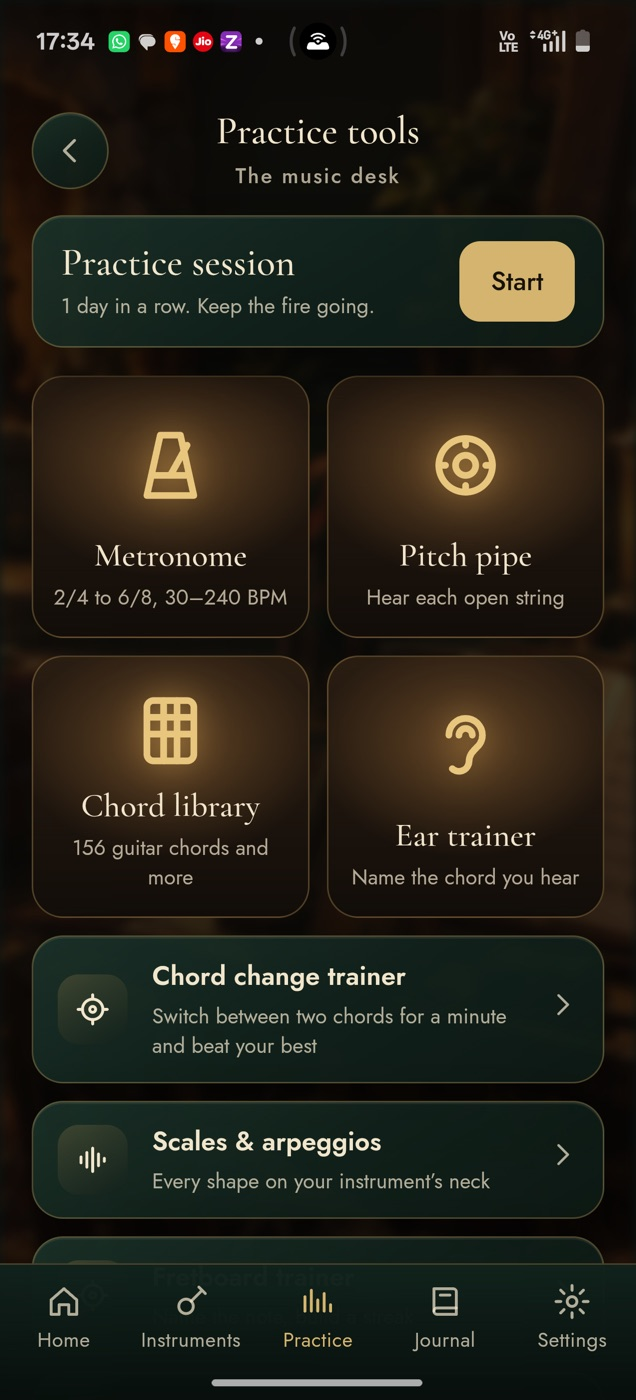
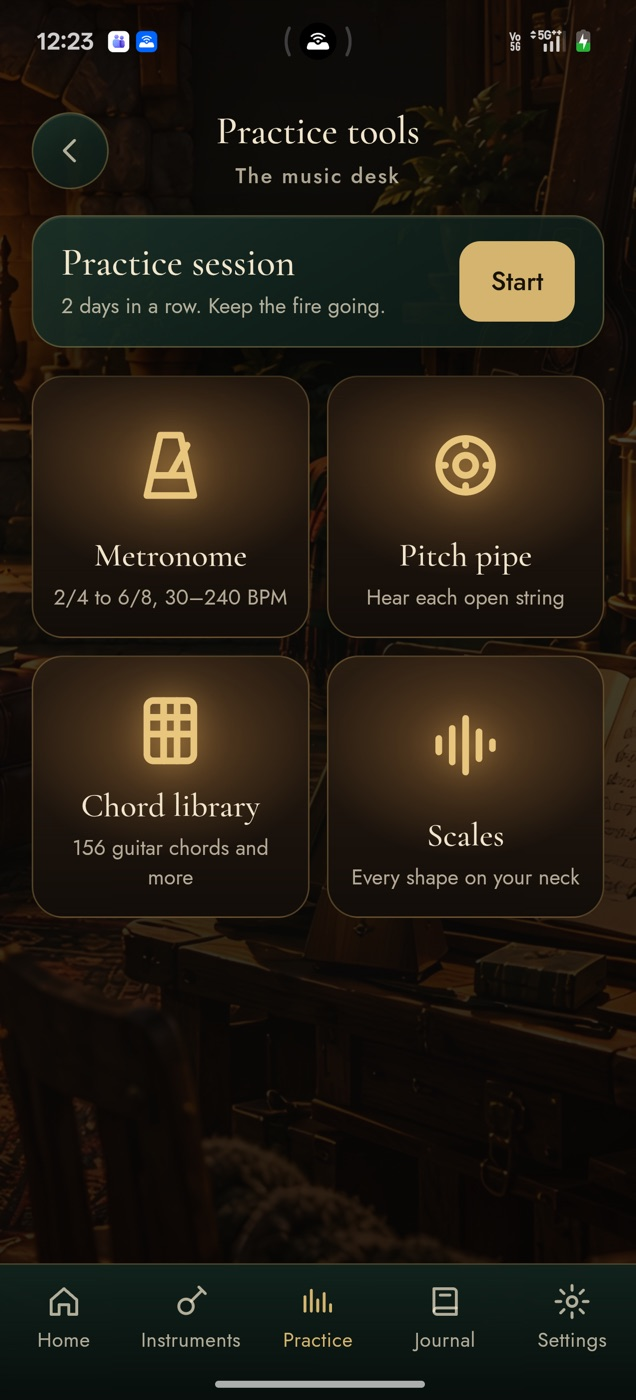
Site and privacy policy: match the focused app

diff --git a/index.html b/index.html
@@ -4,7 +4,7 @@
 <meta charset="utf-8">
 <meta name="viewport" content="width=device-width, initial-scale=1">
 <title>Emberluth: the musician's common room</title>
-<meta name="description" content="Emberluth is a free, private Android app for string players: a living, painted common room where you tune 12 instruments, practise, plan setlists, pack for gigs, care for your strings and keep a journal. No ads, no tracking, works offline.">
+<meta name="description" content="Emberluth is a free, private Android app for string players: a living, painted common room where you tune 12 instruments, practise with a timer, scales and chords, and keep a practice log and string records. No ads, no tracking, works offline.">
 <meta property="og:title" content="Emberluth: the musician's common room">
 <meta property="og:description" content="Tune, practise and prepare by the fire. A free, private app for string players.">
 <meta property="og:image" content="https://h4r1-projects.github.io/emberluth/assets/social-preview.jpg">
@@ -107,13 +107,13 @@
     <div class="places">
       <div class="place"><figure><img src="assets/screens/10-violin.jpg" alt="The violin's page with tuning and care options" loading="lazy"></figure><h3>Every instrument</h3><p>Tune it, change its tuning, look after it and keep its notes.</p></div>
       <div class="place"><figure><img src="assets/screens/12-scales.jpg" alt="Scales and arpeggios drawn on a fretboard" loading="lazy"></figure><h3>Scales on the neck</h3><p>Eleven scales and arpeggios on any of the twelve instruments.</p></div>
-      <div class="place"><figure><img src="assets/screens/15-setlist.jpg" alt="A setlist with keys and capo positions" loading="lazy"></figure><h3>Setlists</h3><p>Songs with their key, capo and tuning, in running order.</p></div>
-      <div class="place"><figure><img src="assets/screens/17-care.jpg" alt="Instrument care guide and string records" loading="lazy"></figure><h3>Instrument care</h3><p>Care guides, string-change records and a maintenance checklist.</p></div>
+      <div class="place"><figure><img src="assets/screens/11-practice.jpg" alt="Practice tools with a session timer" loading="lazy"></figure><h3>Practice tools</h3><p>A session timer, metronome, pitch pipe, chords and scales in one place.</p></div>
+      <div class="place"><figure><img src="assets/screens/17-care.jpg" alt="Instrument care guide and string records" loading="lazy"></figure><h3>Instrument care</h3><p>Care guides, string-change records and notes for each instrument.</p></div>
     </div>
     <div class="tools">
       <div class="tool"><h3>Tune</h3><ul><li>Auto, manual and chromatic modes</li><li>Fine mode, in tune at ±2 cents</li><li>Headstock view shows which peg to turn</li><li>Reference pitch from 415 to 466 Hz</li><li>Custom tunings and a left-handed layout</li></ul></div>
-      <div class="tool"><h3>Practise</h3><ul><li>Metronome from 30 to 240 BPM</li><li>Pitch pipe and 156 guitar chords</li><li>Ear trainer and chord-change trainer</li><li>Fretboard note trainer</li><li>Capo finder and chord transposer</li><li>A practice timer that logs your sessions</li></ul></div>
-      <div class="tool"><h3>Prepare</h3><ul><li>Gig packing lists and reusable templates</li><li>Setlists with key, capo and tuning</li><li>String-change history per instrument</li><li>A journal for goals, practice and ideas</li></ul></div>
+      <div class="tool"><h3>Practise</h3><ul><li>Metronome from 30 to 240 BPM</li><li>Pitch pipe and 156 guitar chords</li><li>Eleven scales and arpeggios on any instrument's neck</li><li>A practice timer that logs your sessions</li></ul></div>
+      <div class="tool"><h3>Prepare</h3><ul><li>A practice log that fills itself from your timer</li><li>Goals, and a fire that burns by how often you play</li><li>String-change history per instrument</li><li>Care guides for each instrument family</li></ul></div>
     </div>
   </div>
 </section>
@@ -123,7 +123,7 @@
     <h2>Private by design</h2>
     <div class="private">
       <div><b>Sound stays on your phone</b><p>The tuner analyses sound as you play. Nothing is recorded, stored or sent anywhere.</p></div>
-      <div><b>No accounts, no tracking</b><p>No sign-in, no ads, no analytics. Your journal, lists and settings never leave your phone.</p></div>
+      <div><b>No accounts, no tracking</b><p>No sign-in, no ads, no analytics. Your practice log, notes and settings never leave your phone.</p></div>
       <div><b>Works offline</b><p>Everything, including the room, its sounds and its art, is inside the app.</p></div>
     </div>
     <p style="margin-top:30px"><a href="privacy.html">Read the privacy policy</a></p>

diff --git a/privacy.html b/privacy.html
@@ -29,7 +29,7 @@
   <h1>Privacy Policy</h1>
   <p class="date">Effective date: 27 October 2026</p>
 
-  <p>Emberluth is a free app for string players: a tuner, practice tools, gig preparation, instrument care and a journal, set in a painted common room. It has no advertisements, analytics or tracking, and no user accounts.</p>
+  <p>Emberluth is a free app for string players: a tuner, practice tools, instrument care and a practice log, set in a painted common room. It has no advertisements, analytics or tracking, and no user accounts.</p>
 
   <h2>1. Microphone and audio</h2>
   <p>Emberluth uses the microphone only while the tuner is open, to detect the pitch of the string you play. Sound is analysed on your phone in real time. The app does not record, save, upload or send microphone audio. You can use every other part of the app without allowing the microphone.</p>
@@ -38,8 +38,8 @@
   <p>Emberluth keeps the following on your phone, in the app's own storage:</p>
   <ul>
     <li>Tuner settings: instrument, tuning, custom tunings, reference pitch, modes and display preferences.</li>
-    <li>Practice data: metronome tempo, trainer scores and the start time of a running practice timer.</li>
-    <li>Things you write: journal entries and goals, gig checklists and templates, setlists, string-change records, maintenance notes and instrument notes.</li>
+    <li>Practice data: metronome tempo and the start time of a running practice timer.</li>
+    <li>Things you write: practice log entries, goals and notes, string-change records and instrument notes.</li>
     <li>Room state: which instruments you tuned on which day, whether you have seen the opening, whether the room's fire and rain sounds are on, and the date of your last backup file.</li>
   </ul>
   <p>None of this is sent to the developer or anyone else by the app.</p>

diff --git a/README.md b/README.md
@@ -12,7 +12,7 @@ flicker, rain or snow taps the windows and the light follows your day. Swipe acr
   <img src="assets/screens/04-room-card.jpg" width="24%" alt="The common room">
   <img src="assets/screens/09-instrument-wall.jpg" width="24%" alt="The instrument wall">
   <img src="assets/screens/12-scales.jpg" width="24%" alt="Scales on the fretboard">
-  <img src="assets/screens/15-setlist.jpg" width="24%" alt="A setlist">
+  <img src="assets/screens/11-practice.jpg" width="24%" alt="Practice tools">
 </p>
 
 ## What's inside
@@ -20,10 +20,9 @@ flicker, rain or snow taps the windows and the light follows your day. Swipe acr
 - **Tune** 12 instruments in 85 tunings: guitar, 12-string, baritone, bass, double bass, ukulele, violin, viola, cello,
   banjo, tenor banjo and mandolin. Auto, manual and chromatic modes, fine mode, headstock view, custom tunings,
   reference pitch from 415 to 466 Hz and a left-handed layout.
-- **Practise** with a metronome, pitch pipe, 156 guitar chords, ear and chord-change trainers, eleven scales and
-  arpeggios on any fretboard, a fretboard note trainer, a capo finder and chord transposer, and a practice timer.
-- **Prepare** with gig packing lists and templates, setlists with key, capo and tuning, string-change records,
-  maintenance checklists and a journal.
+- **Practise** with a metronome, pitch pipe, 156 guitar chords, eleven scales and arpeggios on any fretboard, and a
+  practice timer that logs every session.
+- **Look after** your instruments with care guides, string-change records and notes, and keep a practice log with goals.
 
 ## Privacy
 
